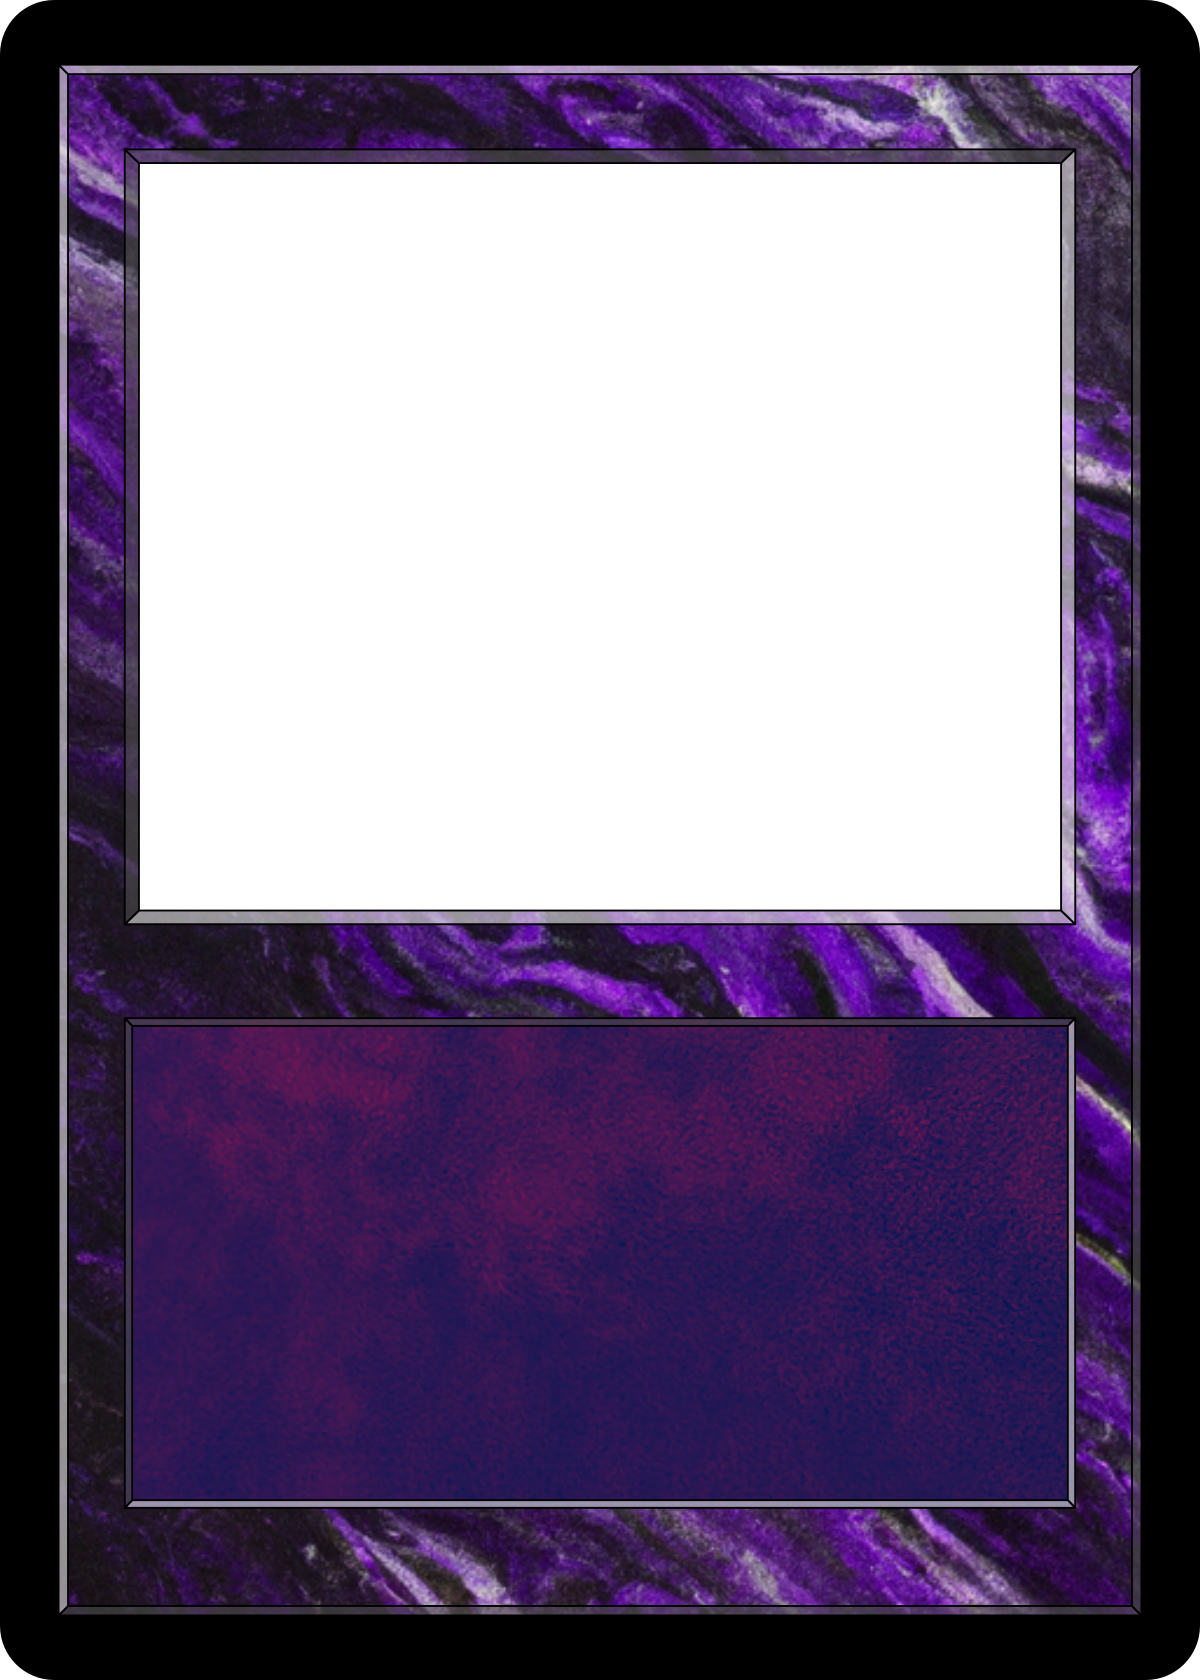
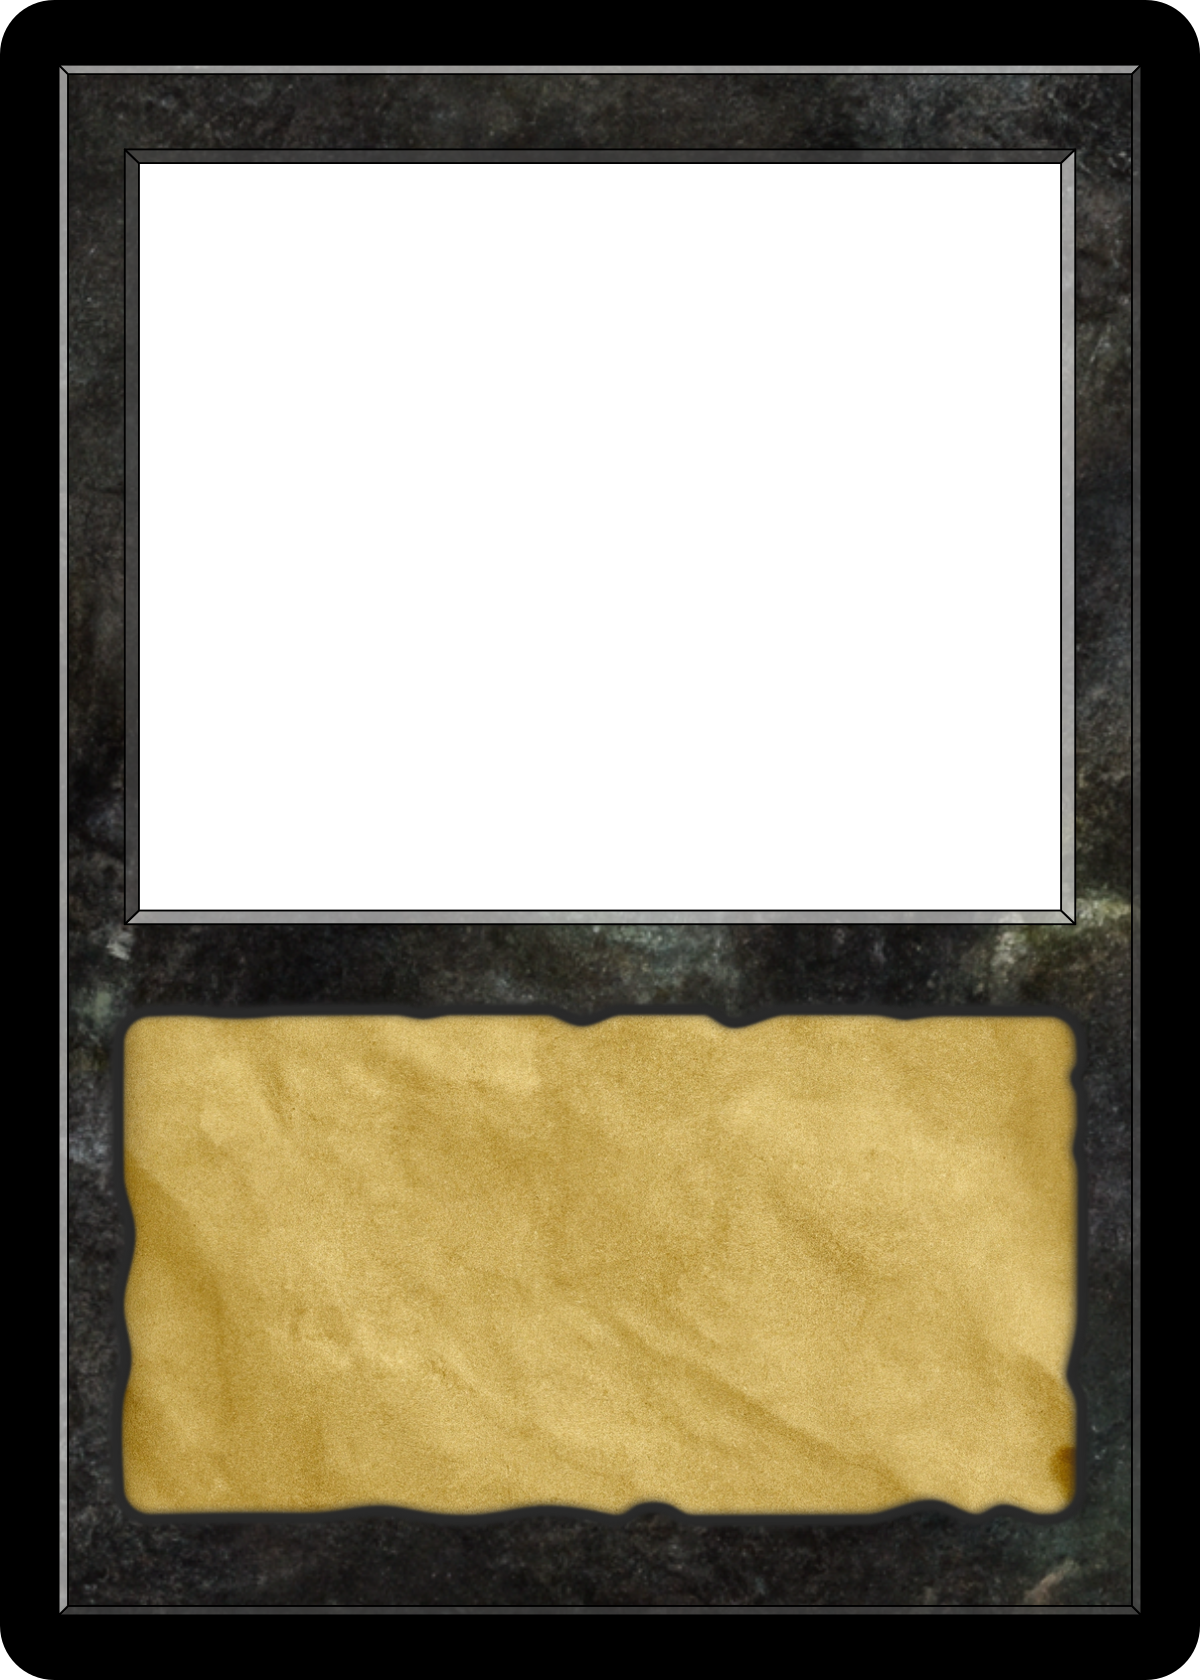
black card change

diff --git a/src/main/java/com/kif/deckgen/services/CardComposer.java b/src/main/java/com/kif/deckgen/services/CardComposer.java
@@ -1,8 +1,14 @@
 package com.kif.deckgen.services;
 
+import java.awt.BasicStroke;
 import java.awt.Color;
 import java.awt.Font;
 import java.awt.Graphics2D;
+import java.awt.RenderingHints;
+import java.awt.Shape;
+import java.awt.font.FontRenderContext;
+import java.awt.font.GlyphVector;
+import java.awt.geom.AffineTransform;
 import java.awt.image.BufferedImage;
 import java.io.File;
 import java.io.IOException;
@@ -14,7 +20,7 @@ import org.springframework.stereotype.Service;
 
 @Service
 public class CardComposer {
-    private String framePath = "D:\\deckgen\\src\\main\\resources\\images\\";
+    private String framePath;
     private String artPath = "D:\\deckgen\\src\\main\\resources\\images\\img-H7MTllJItxyHXRMlnO77hB9I.png";
     //private String backgroundPath;
 
@@ -37,8 +43,8 @@ public class CardComposer {
         int newParagraphSize = 75;
         int newlineSize = 40;
         int textWidth = 1600;
-        
-        String frameColour = "frame";
+        framePath = "D:\\deckgen\\src\\main\\resources\\images\\";
+        String frameColour = "";
         
         if(mana.contains("W")) {frameColour+="white";}
         if(mana.contains("U")) {frameColour+="blue";}
@@ -48,10 +54,11 @@ public class CardComposer {
         frameColour += ".png";
         
         /* Test */
-        frameColour = "white_1.png";
+        
+        frameColour = "black_1.png";
         
         framePath += frameColour;
-        
+        System.out.println(framePath);
         BufferedImage frameImage = ImageIO.read(new File(framePath));
         BufferedImage artImage = ImageIO.read(new File(artPath));
         
@@ -96,21 +103,29 @@ public class CardComposer {
             g2d.drawOval(x - (i * 50), y, 40, 40);
             g2d.drawString(String.valueOf(c), x - (i * 50) + 15, y + 30);
         }
-        
+        g2d.setRenderingHint(RenderingHints.KEY_ANTIALIASING, RenderingHints.VALUE_ANTIALIAS_ON);
         font = new Font("Serif", Font.BOLD, 60);
         g2d.setFont(font);
         //Card Name
         x = width/10;
-        y += 40;
-        g2d.drawString(name, x, y);
+        y += 30;
+        drawTextWithOutline( g2d, name, x,  y,font);
 
         //Type and subtype
         font = new Font("Serif", Font.BOLD, 40);
         g2d.setFont(font);
         x = 180;
         y = 980;
-        g2d.drawString(type + " - " + subtype, x, y);
-
+        //g2d.drawString(type + " - " + subtype, x, y);
+        String typeText;
+        if(subtype.isBlank()) {
+        	typeText = type;
+        }
+        else {
+        	typeText = type + " - " + subtype;
+        }
+        
+        drawTextWithOutline( g2d, (typeText), x, y,font);
         // Rules text
         font = new Font("Serif", Font.BOLD, 40);
         x = 200;
@@ -122,16 +137,18 @@ public class CardComposer {
         String currentLine = new String();
         int lineCount=1;
         
+        g2d.setColor(Color.BLACK);
+
         for(String rule : rules) {
         	while(rule.length() * font.getSize() > textWidth) {
         		int breakPosition = textWidth/font.getSize();
         		
-        		System.out.println(breakPosition);
-        		System.out.println(rule.charAt(breakPosition));
+        		//System.out.println(breakPosition);
+        		//System.out.println(rule.charAt(breakPosition));
 
         		
         		while( !rule.substring( breakPosition,breakPosition+1).equals(" ") && !rule.substring(breakPosition,breakPosition+1).equals(".") && !(rule.length()-1==breakPosition)){
-            		System.out.println(rule.charAt(breakPosition));
+            		//System.out.println(rule.charAt(breakPosition));
 
         			breakPosition++;	
         		}
@@ -139,10 +156,12 @@ public class CardComposer {
         		rule = rule.substring(breakPosition);
         		y+=newlineSize;
             	g2d.drawString(currentLine.trim(), x, y);
+        		//drawTextWithOutline( g2d, currentLine.trim(), x,  y,font);
         		lineCount++;
         	}
     		y+=newlineSize;
         	g2d.drawString(rule.trim(), x, y);
+        	//drawTextWithOutline( g2d, rule.trim(), x,  y,font);
     		lineCount++;
         }
         
@@ -166,10 +185,15 @@ public class CardComposer {
              		line = line.substring(breakPosition);
              		y+=newlineSize;
                  	g2d.drawString(currentLine.trim(), x, y);
+                	//drawTextWithOutline( g2d, line.trim(), x,  y,font);
+
+                 
              		lineCount++;
              	}
          		y+=newlineSize;
              	g2d.drawString(line.trim(), x, y);
+            	//drawTextWithOutline( g2d, line.trim(), x,  y,font);
+
         }
        
 
@@ -185,7 +209,9 @@ public class CardComposer {
 
         y = height - height / 16;
 
-        g2d.drawString(power + "/" + toughness, x, y);
+        //g2d.drawString(power + "/" + toughness, x, y);
+    	drawTextWithOutline( g2d, (power + "/" + toughness), x,  y,font);
+
 
         font = new Font("Arial", Font.PLAIN, 20);
         g2d.setFont(font);
@@ -194,10 +220,25 @@ public class CardComposer {
 
         //y += font.getSize() * (rulesText.split("\n").length - flavorText.split("\n").length) / 2;
 
-        g2d.drawString(copywrite + " | Art by " + artist, x, y);
-
+        //g2d.drawString(copywrite + " | Art by " + artist, x, y);
+        drawTextWithOutline( g2d, (copywrite + " | Art by " + artist), x,  y,font);
         g2d.dispose();
 
         ImageIO.write(combinedImage, "png", new File("D:\\out-images\\"+ name + UUID.randomUUID().toString() +".png"));
+    }
+    
+    public void drawTextWithOutline(Graphics2D g2d, String text, int x, int y, Font font) {
+        //Font font = new Font("Arial", Font.BOLD, 20);
+        FontRenderContext frc = g2d.getFontRenderContext();
+        GlyphVector gv = font.createGlyphVector(frc, text);
+        Shape glyph = gv.getOutline();
+        AffineTransform orig = g2d.getTransform();
+        g2d.translate(x, y);
+        g2d.setColor(Color.black);
+        g2d.setStroke(new BasicStroke(3));
+        g2d.draw(glyph);
+        g2d.setColor(Color.white);
+        g2d.fill(glyph);
+        g2d.setTransform(orig);
     }
 }
